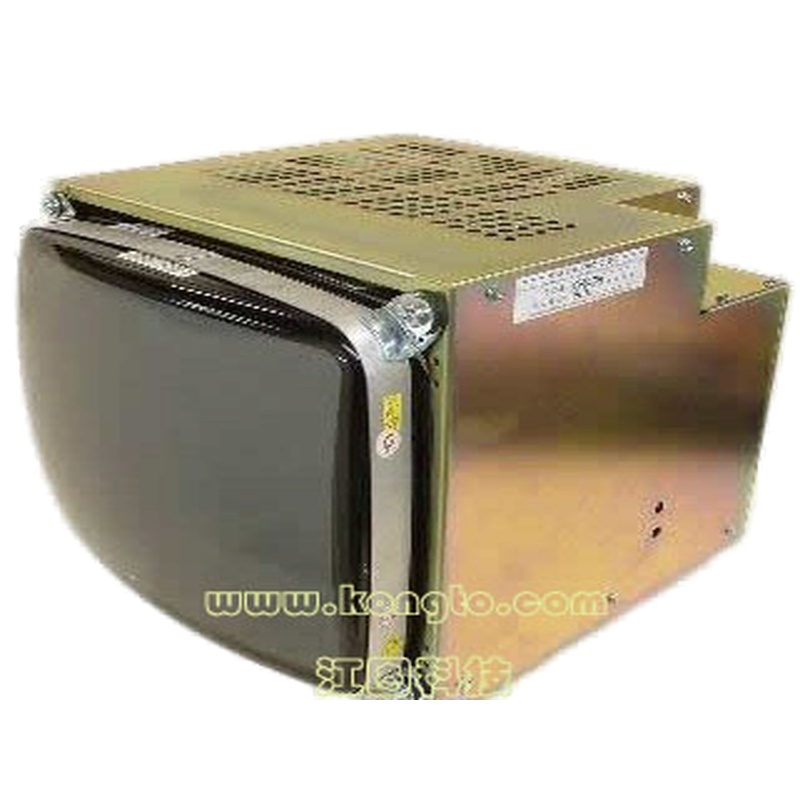
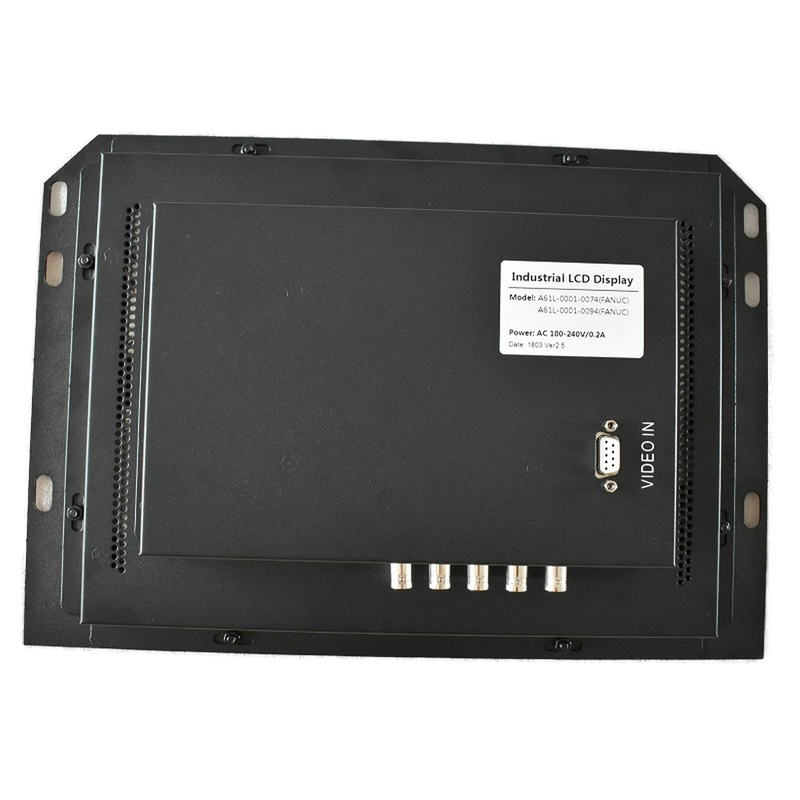
fix: 0074 images from new dir - V2.5 front/back, replacement effect, CRT label/old

diff --git a/products/fanuc-a61l-0001-0074-lcd-upgrade.html b/products/fanuc-a61l-0001-0074-lcd-upgrade.html
@@ -2830,9 +2830,9 @@ body{font-family:-apple-system,BlinkMacSystemFont,"Segoe UI",Roboto,sans-serif;l
 <img src="/images/fanuc-a61l-0001-0074-lcd-upgrade_lcd_front_0.jpg" alt="Product image" class="active" onclick="switchImage(this)">
 <img src="/images/fanuc-a61l-0001-0074-lcd-upgrade_lcd_back_1.jpg" alt="Product image" class="" onclick="switchImage(this)">
 <img src="/images/fanuc-a61l-0001-0074-lcd-upgrade_effect_2.jpg" alt="Product image" class="" onclick="switchImage(this)">
-<img src="/images/fanuc-a61l-0001-0074-lcd-upgrade_label_3.jpg" alt="Product image" class="" onclick="switchImage(this)">
-<img src="/images/fanuc-a61l-0001-0074-lcd-upgrade_crt_4.jpg" alt="Product image" class="" onclick="switchImage(this)">
-<img src="/images/fanuc-a61l-0001-0074-lcd-upgrade_connector_5.jpg" alt="Product image" class="" onclick="switchImage(this)">
+<img src="/images/fanuc-a61l-0001-0074-lcd-upgrade_effect_3.jpg" alt="Product image" class="" onclick="switchImage(this)">
+<img src="/images/fanuc-a61l-0001-0074-lcd-upgrade_label_4.jpg" alt="Product image" class="" onclick="switchImage(this)">
+<img src="/images/fanuc-a61l-0001-0074-lcd-upgrade_crt_5.jpg" alt="Product image" class="" onclick="switchImage(this)">
 </div>
 
 

diff --git a/scripts/product_images.py b/scripts/product_images.py
@@ -48,13 +48,13 @@ MANUAL = {
         ('FANUC/0072-0076-0086-0090-0092/0072-2.jpg', 'lcd_back'),
         ('FANUC/0072-0076-0086-0090-0092/0.JPG', 'crt'),
     ],
-            'fanuc-a61l-0001-0074-lcd-upgrade.html': [
-        ('FANUC/0074-0094/Fanuc发那科A61L-001-0074A61L-0001-0094(V3版)/a61l-0001-0074-front-400.jpg', 'lcd_front'),
-        ('FANUC/0074-0094/0074-94-02.jpg', 'lcd_back'),
+                'fanuc-a61l-0001-0074-lcd-upgrade.html': [
+        ('FANUC/0074-0094/Fanuc发那科A61L-001-0074A61L-0001-0094 new/2018-0074-0094新液晶-V2.5/2018-74-94-0001.jpg', 'lcd_front'),
+        ('FANUC/0074-0094/Fanuc发那科A61L-001-0074A61L-0001-0094 new/2018-0074-0094新液晶-V2.5/2018-74-94-0005.jpg', 'lcd_back'),
         ('FANUC/0074-0094/Fanuc发那科A61L-001-0074A61L-0001-0094 new/替换效果/0094-0074安装效果背面.jpg', 'effect'),
+        ('FANUC/0074-0094/Fanuc发那科A61L-001-0074A61L-0001-0094 new/替换效果/A61L-0001-0094_LCDV2.5-05.jpg', 'effect'),
         ('FANUC/0074-0094/Fanuc发那科A61L-001-0074A61L-0001-0094 new/CRT/C14C-1472D1F-A61L-0001-0094#A-LABEL.jpg', 'label'),
-        ('FANUC/0074-0094/Fanuc发那科A61L-001-0074A61L-0001-0094(V3版)/A61L-0001-0074 Fanuc CRT显示器.jpg', 'crt'),
-        ('FANUC/0074-0094/Fanuc发那科A61L-001-0074A61L-0001-0094(V3版)/TX-1450AE-接口.jpg', 'connector'),
+        ('FANUC/0074-0094/Fanuc发那科A61L-001-0074A61L-0001-0094 new/CRT/0074-OLD.jpg', 'crt'),
     ],
     'fanuc-a61l-0001-0076-lcd-upgrade.html': [
         ('FANUC/0072-0076-0086-0090-0092/0076-1.jpg', 'lcd_front'),
